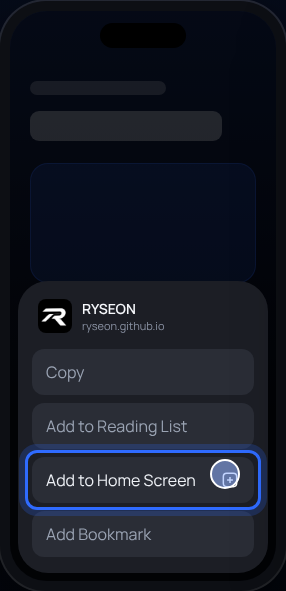
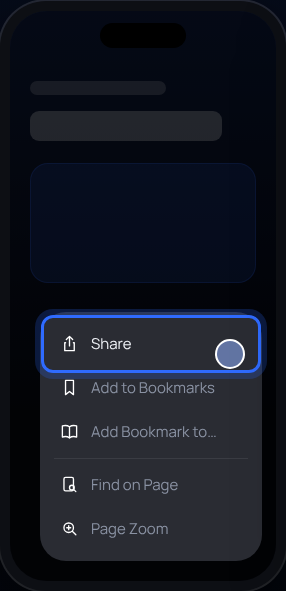
Guide: iPhone steps match iOS 26 Safari menus (menu > Share > Add to Home Screen > Add)
Claude-Session: https://claude.ai/code/session_015HTmuwwSk34AaHfdekJXVJ

Changed region(s): [[0.0559, 0.4569, 0.951, 0.9746]]

diff --git a/tools/investor_build.py b/tools/investor_build.py
@@ -231,8 +231,8 @@ if cfg.get("install_guide") and (ROOT / "assets/guide").is_dir():
  <div class="pg" data-p="ios"><button class="bk" type="button" data-to="hi" aria-label="Back"><svg viewBox="0 0 24 24" fill="none" stroke="currentColor" stroke-width="1.8" stroke-linecap="round"><path d="M15 5l-7 7 7 7"/></svg></button>
   <h2 style="margin-top:22px">Add to Home Screen</h2><p>iPhone · Safari · three taps</p>
   <div class="st"><div><div class="n">1</div><img src="guide/ios-1.png" alt=""><em>Tap <b>≡</b> on the left of the address bar</em></div>
-   <div><div class="n">2</div><img src="guide/ios-2.png" alt=""><em>Tap <b>Share</b>, then <b>Add to Home Screen</b></em></div>
-   <div><div class="n">3</div><img src="guide/ios-3.png" alt=""><em>Keep <b>Open as Web App</b> on, tap <b>Add</b></em></div></div>
+   <div><div class="n">2</div><img src="guide/ios-2.png" alt=""><em>Tap <b>Share</b></em></div>
+   <div><div class="n">3</div><img src="guide/ios-3.png" alt=""><em>Scroll down, tap <b>Add to Home Screen</b>, then <b>Add</b></em></div></div>
   <div class="nt">Older iPhone? Tap the Share button at the bottom of Safari, then Add to Home Screen. Then open RYSEON from your Home Screen.</div>
   <button class="pb" type="button" data-x="got">Got it, I'll add it</button><button class="lk" type="button" data-x="browser">Continue in browser</button></div>
  <div class="pg" data-p="android"><button class="bk" type="button" data-to="hi" aria-label="Back"><svg viewBox="0 0 24 24" fill="none" stroke="currentColor" stroke-width="1.8" stroke-linecap="round"><path d="M15 5l-7 7 7 7"/></svg></button>
